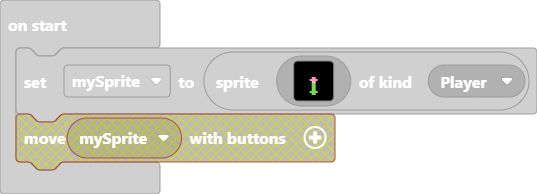
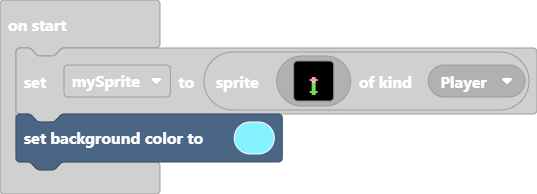
Update main.blocks, main.ts

Changed region(s): [[0.0298, 0.5567, 0.6257, 0.8969]]

diff --git a/main.ts b/main.ts
@@ -16,3 +16,4 @@ let mySprite = sprites.create(img`
     . . . . . . . 7 7 . . . . . . . 
     . . . . . . . . . . . . . . . . 
     `, SpriteKind.Player)
+scene.setBackgroundColor(9)
